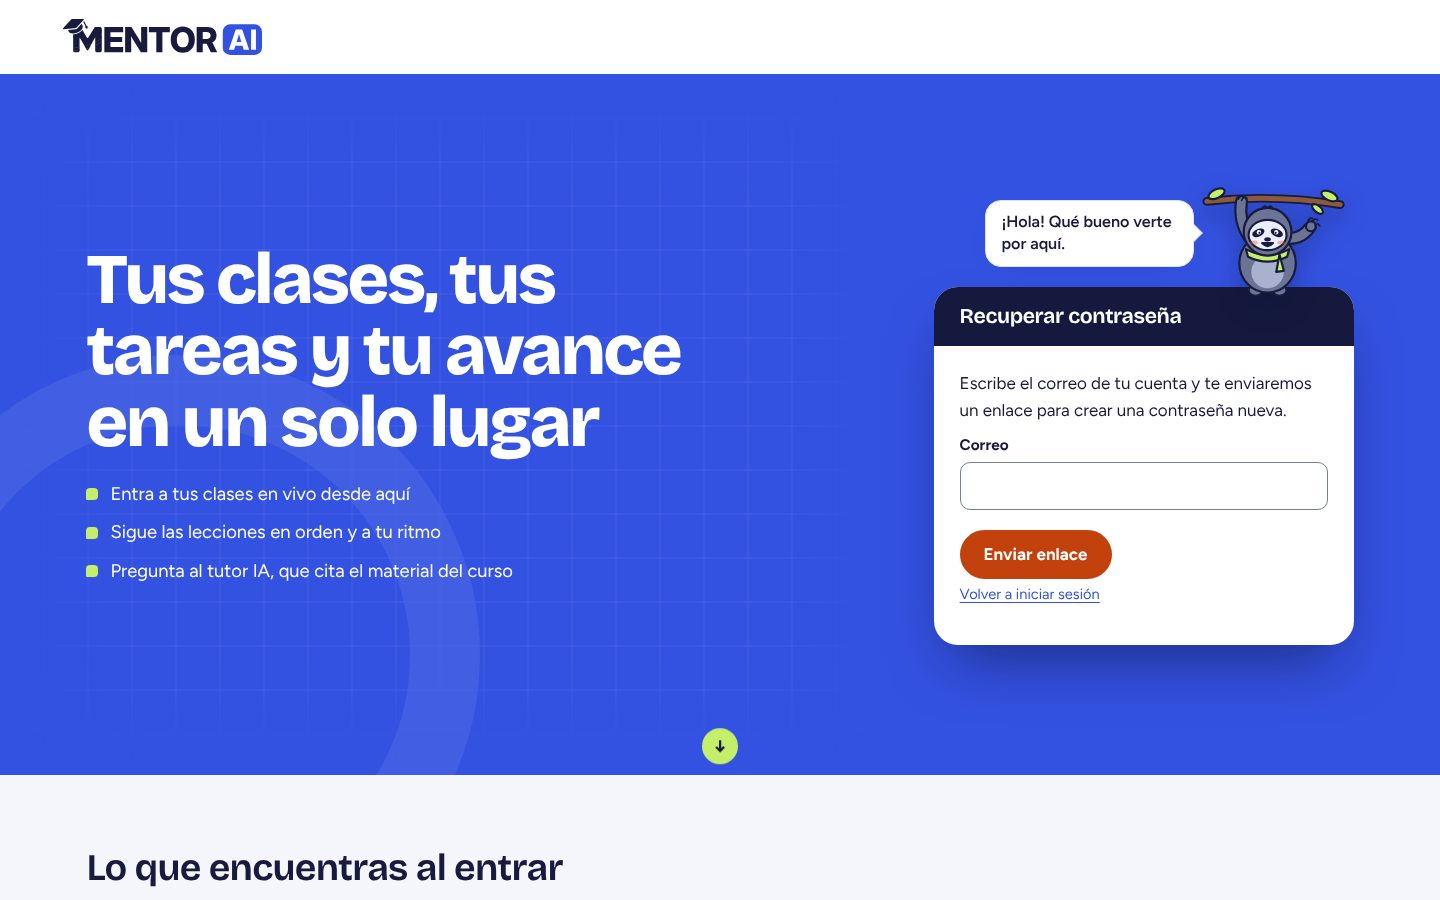
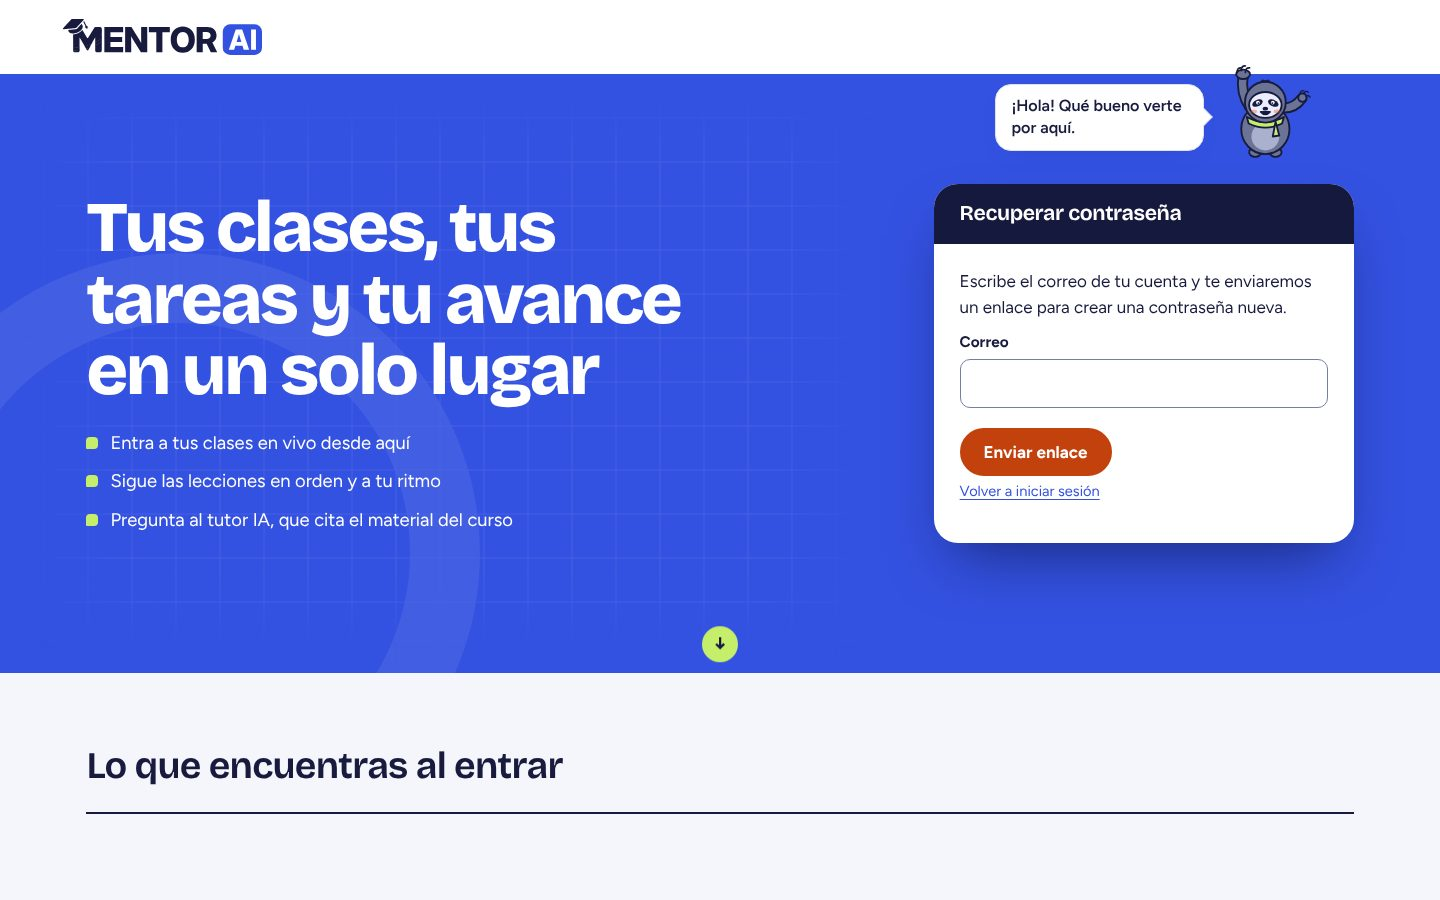
feat(frontend): Pausa se agarra de la barra superior en la portada
- Pausa acepta rama={false}: sin rama, con la palma y las garras sobre el borde de lo que tenga encima.
- En la portada cuelga del borde inferior de la barra del logo y saluda con la otra mano.
- Mockups de la portada, ficha de marca y estado actualizados.

Claude-Session: https://claude.ai/code/session_01HWhhskBB4jkRYBLk5nnoMy

diff --git a/frontend/src/Componentes/Pausa.jsx b/frontend/src/Componentes/Pausa.jsx
@@ -6,6 +6,8 @@ import { gsap, useGSAP } from '../utils/gsap.js';
 // Cada estado cambia partes del mismo dibujo: brazo derecho, ojos, boca y accesorios.
 export const ESTADOS_PAUSA = ['bienvenida', 'leyendo', 'dormido'];
 export const VISTA_PAUSA = '362 30 276 215';
+// Sin rama: el dibujo empieza en las garras, para colgarse de un borde de la página.
+const VISTA_SIN_RAMA = '362 36 276 209';
 
 const TINTA = '#181B3E';
 const GRIS = '#6B7494';
@@ -95,17 +97,17 @@ function Zetas() {
   );
 }
 
-// Dibujo completo de Pausa.
-export function DibujoPausa({ estado = 'leyendo' }) {
+// Dibujo completo de Pausa. Con «rama» en falso se cuelga de lo que tenga encima (por ejemplo, la barra superior).
+export function DibujoPausa({ estado = 'leyendo', rama = true }) {
   return (
     <g data-parte="pausa" stroke={TINTA} strokeWidth="4" strokeLinejoin="round" strokeLinecap="round">
-      <g data-parte="rama">
+      {rama && <g data-parte="rama">
         <path d="M378 62 q120 -14 246 6" fill="none" strokeWidth="16" />
         <path d="M378 62 q120 -14 246 6" fill="none" stroke={CAFE} strokeWidth="9" />
         <ellipse cx="396" cy="48" rx="16" ry="8" fill={LIMA} transform="rotate(-25 396 48)" />
         <ellipse cx="604" cy="52" rx="16" ry="8" fill={LIMA} transform="rotate(25 604 52)" />
         <ellipse cx="582" cy="76" rx="12" ry="6" fill={LIMA} transform="rotate(40 582 76)" />
-      </g>
+      </g>}
       <g data-parte="brazo-rama">
         <path d="M456 128 q-20 -30 -14 -66" fill="none" strokeWidth="24" />
         <path d="M456 128 q-20 -30 -14 -66" fill="none" stroke={GRIS} strokeWidth="16" />
@@ -132,10 +134,17 @@ export function DibujoPausa({ estado = 'leyendo' }) {
         <ellipse cx="465" cy="138" rx="7" ry="4" fill={NARANJA} opacity="0.4" stroke="none" />
         <ellipse cx="515" cy="138" rx="7" ry="4" fill={NARANJA} opacity="0.4" stroke="none" />
       </g>
+      {/* Sin rama, la mano izquierda se apoya sobre el borde (y = 58) con las garras encima. */}
+      {!rama && (
+        <g data-parte="agarre">
+          <ellipse cx="442" cy="58" rx="15" ry="10" fill={GRIS} />
+          <path d="M429 54 q0 -11 9 -10 M438 50 q0 -11 9 -10 M447 54 q0 -11 9 -10" fill="none" strokeWidth="3.6" />
+        </g>
+      )}
       {/* Garras sobre la rama: el brazo derecho solo se agarra cuando duerme. */}
-      <path d={estado === 'dormido'
+      {rama && <path d={estado === 'dormido'
         ? 'M436 58 q4 -8 10 -4 M442 60 q4 -8 10 -4 M532 58 q4 -8 10 -2 M538 60 q4 -8 10 -2'
-        : 'M436 58 q4 -8 10 -4 M442 60 q4 -8 10 -4'} fill="none" strokeWidth="3" />
+        : 'M436 58 q4 -8 10 -4 M442 60 q4 -8 10 -4'} fill="none" strokeWidth="3" />}
       {estado === 'dormido' && <Zetas />}
     </g>
   );
@@ -159,7 +168,7 @@ export function animarEstadoPausa(raiz, estado) {
 }
 
 // Pausa como SVG en línea. «animacion» es un contador: cada cambio reproduce el estado una vez.
-export default function Pausa({ estado = 'leyendo', animacion = 0, ancho = 120, parpadeo = true, className = '', alTerminar }) {
+export default function Pausa({ estado = 'leyendo', animacion = 0, ancho = 120, parpadeo = true, rama = true, className = '', alTerminar }) {
   const raiz = useRef(null);
   const pose = ESTADOS_PAUSA.includes(estado) ? estado : 'leyendo';
 
@@ -181,9 +190,9 @@ export default function Pausa({ estado = 'leyendo', animacion = 0, ancho = 120, 
   }, { scope: raiz, dependencies: [pose, parpadeo, ancho] });
 
   return (
-    <svg ref={raiz} className={`pausa ${className}`.trim()} viewBox={VISTA_PAUSA} width={ancho} height={Math.round((ancho * 215) / 276)}
-      aria-hidden="true" focusable="false" overflow="visible" data-estado={pose}>
-      <DibujoPausa estado={pose} />
+    <svg ref={raiz} className={`pausa ${className}`.trim()} viewBox={rama ? VISTA_PAUSA : VISTA_SIN_RAMA} width={ancho}
+      height={Math.round((ancho * (rama ? 215 : 209)) / 276)} aria-hidden="true" focusable="false" overflow="visible" data-estado={pose}>
+      <DibujoPausa estado={pose} rama={rama} />
     </svg>
   );
 }

diff --git a/frontend/src/Componentes/Recorrido.css b/frontend/src/Componentes/Recorrido.css
@@ -243,14 +243,18 @@
 .practica-orbi { margin-left: auto; margin-right: 16px; }
 
 /* --- Pausa saluda en la portada (inicio de sesión, recuperar y activar) --- */
-/* Cuelga de su rama justo encima del formulario, con la burbuja a la izquierda. */
-.portada-acceso { position: relative; z-index: 2; display: flex; flex-direction: column; min-width: 0; }
-.mascota-portada { flex-direction: row-reverse; justify-content: flex-start; align-items: center; gap: 4px; margin: 0 6px -14px 0; position: relative; z-index: 3; }
-.mascota-portada > svg { width: clamp(120px, 11vw, 150px); height: auto; filter: drop-shadow(0 10px 12px rgba(10, 16, 60, 0.3)); }
-.mascota-portada .burbuja-mascota { max-width: 20ch; font-size: 0.95rem; margin-bottom: 18px; }
+/* Cuelga con una mano del borde inferior de la barra del logo, sobre la columna del formulario. */
+.portada .cabecera { position: relative; z-index: 3; }
+.pausa-colgada {
+  --ancho-pausa: clamp(84px, 9vw, 128px);
+  /* El borde de la barra cae a media palma (22 de 276 unidades desde arriba del dibujo): la mano queda agarrada. */
+  position: absolute; top: calc(100% - var(--ancho-pausa) * 22 / 276); right: calc(clamp(16px, 6vw, 90px) + 20px);
+  flex-direction: row-reverse; align-items: center; gap: 2px; pointer-events: none;
+}
+.pausa-colgada > svg { width: var(--ancho-pausa); height: auto; }
+.pausa-colgada .burbuja-mascota { max-width: 20ch; font-size: 0.95rem; margin-top: 10px; }
 /* La flecha de la burbuja apunta a Pausa, que queda a la derecha. */
-.mascota-portada .burbuja-mascota::before { left: auto; right: -7.5px; transform: translateY(-50%) rotate(-135deg); }
+.pausa-colgada .burbuja-mascota::before { left: auto; right: -7.5px; transform: translateY(-50%) rotate(-135deg); }
 @media (max-width: 560px) {
-  .mascota-portada > svg { width: 104px; }
-  .mascota-portada .burbuja-mascota { font-size: 0.9rem; padding: 8px 12px; margin-bottom: 12px; }
+  .pausa-colgada .burbuja-mascota { font-size: 0.86rem; padding: 6px 10px; }
 }

diff --git a/frontend/src/Componentes/Portada.jsx b/frontend/src/Componentes/Portada.jsx
@@ -69,7 +69,14 @@ export default function Portada({ titulo, children }) {
 
   return (
     <div className="portada">
-      <header className="cabecera"><Logo como="p" /></header>
+      <header className="cabecera">
+        <Logo como="p" />
+        {/* Pausa se agarra del borde inferior de esta barra y saluda una vez; es decorativa y respeta
+            «Mostrar mascotas» y «Menos movimiento». */}
+        <Suspense fallback={null}>
+          <Mascota personaje="pausa" estado="bienvenida" rama={false} animacion={1} mensaje={MENSAJE_PORTADA} className="pausa-colgada" />
+        </Suspense>
+      </header>
 
       <section className="portada-hero">
         {/* Capa decorativa: oculta al lector de pantalla y sin eventos del puntero. */}
@@ -84,15 +91,9 @@ export default function Portada({ titulo, children }) {
             <li>Pregunta al tutor IA, que cita el material del curso</li>
           </ul>
         </div>
-        <div className="portada-acceso">
-          {/* Pausa cuelga sobre el formulario y saluda una vez; es decorativa y respeta «Mostrar mascotas» y «Menos movimiento». */}
-          <Suspense fallback={null}>
-            <Mascota personaje="pausa" estado="bienvenida" tamano="mediano" animacion={1} mensaje={MENSAJE_PORTADA} className="mascota-portada" />
-          </Suspense>
-          <div className="tarjeta formulario-portada">
-            <h2>{titulo}</h2>
-            <div className="formulario-cuerpo">{children}</div>
-          </div>
+        <div className="tarjeta formulario-portada">
+          <h2>{titulo}</h2>
+          <div className="formulario-cuerpo">{children}</div>
         </div>
         <a className="flecha-abajo" href="#detalles" aria-label="Ver más sobre la plataforma">↓</a>
       </section>

diff --git a/frontend/src/Componentes/Mascota.jsx b/frontend/src/Componentes/Mascota.jsx
@@ -15,7 +15,7 @@ export function useMascotasVisibles() {
 // Envoltorio común de Orbi y Pausa: dibujo decorativo, burbuja de texto y preferencia de ocultar.
 // El dibujo nunca lleva información: el mensaje es texto visible y, si es importante, se anuncia.
 export default function Mascota({
-  personaje = 'orbi', estado, mensaje, tamano = 'mediano', anunciar = false, animacion = 0, siOculta = null, className = '', alTerminar,
+  personaje = 'orbi', estado, mensaje, tamano = 'mediano', anunciar = false, animacion = 0, siOculta = null, className = '', alTerminar, rama = true,
 }) {
   const visible = useMascotasVisibles();
   // Pausa cuelga de una rama ancha: se dibuja un poco más grande para que el personaje mida lo mismo que Orbi.
@@ -32,7 +32,7 @@ export default function Mascota({
   const Dibujo = personaje === 'pausa' ? Pausa : Orbi;
   return (
     <div className={`mascota mascota-${tamano} ${className}`.trim()} data-personaje={personaje}>
-      <Dibujo estado={estado} ancho={ancho} animacion={animacion} alTerminar={alTerminar} />
+      <Dibujo estado={estado} ancho={ancho} animacion={animacion} alTerminar={alTerminar} {...(personaje === 'pausa' ? { rama } : {})} />
       {/* La región viva queda montada aunque esté vacía, para que el siguiente mensaje sí se anuncie. */}
       {mensaje !== undefined && <p className="burbuja-mascota" aria-live={anunciar ? 'polite' : undefined}>{mensaje}</p>}
     </div>

diff --git a/docs/ESTADO_DESARROLLO_PARA_CLAUDE.md b/docs/ESTADO_DESARROLLO_PARA_CLAUDE.md
@@ -38,9 +38,9 @@ Ejecutado el 2026-11-25:
 - Modelo de datos: 76 tablas, 765 columnas y 159 llaves foráneas; entregables en Word y PDF regenerados.
 
 Después del PR #19 (mismo día):
-- Pausa saluda en la portada pública (iniciar sesión, recuperar y activar): cuelga de su rama sobre el formulario, saluda una vez y dice «¡Hola! Qué bueno verte por aquí.».
-- Se carga aparte con `lazy`, así que el formulario no espera a GSAP. Carga inicial comprimida: 99 008 bytes.
-- Se revisó en 1440, 1000 y 390 px, en claro y oscuro. Al lado del título dejaba el título en una columna demasiado angosta a 1000 px, por eso va sobre la tarjeta.
+- Pausa saluda en la portada pública (iniciar sesión, recuperar y activar). Se agarra con una mano del borde inferior de la barra del logo, sin su rama (`Pausa rama={false}`, con palma y garras sobre el borde), saluda una vez con la otra mano y dice «¡Hola! Qué bueno verte por aquí.».
+- Se carga aparte con `lazy`, así que el formulario no espera a GSAP. Carga inicial comprimida: 99 009 bytes.
+- Se revisó en 1440, 1000 y 390 px, en claro y oscuro. Al lado del título dejaba el título en una columna demasiado angosta a 1000 px; por eso cuelga de la barra, sobre la columna del formulario.
 - Lint; frontend 85/85; Playwright `accesibilidad` y `acceso` 15/15; mockups 01–03 regenerados.
 
 Pendiente:

diff --git a/docs/marca/mascotas/README.md b/docs/marca/mascotas/README.md
@@ -24,7 +24,7 @@ En la app se dibujan con `Componentes/Orbi.jsx`, `Pausa.jsx`, `OrbiSticker.jsx` 
 | Orbi | Pensando | Tutor IA, mientras busca en el material |
 | Orbi | Celebrando | Subir de rango, terminar un módulo, recorrido completo |
 | Orbi | Descanso | Reservado, aún sin uso en pantalla |
-| Pausa | Bienvenida | Portada pública (iniciar sesión, recuperar y activar), colgada sobre el formulario; inicio del estudiante tras 7 días o más sin actividad de aprendizaje |
+| Pausa | Bienvenida | Portada pública (iniciar sesión, recuperar y activar), agarrada con una mano del borde inferior de la barra del logo y sin su rama (`rama={false}`); inicio del estudiante tras 7 días o más sin actividad de aprendizaje |
 | Pausa | Leyendo | Estados vacíos (sin cursos, curso sin lecciones) y Configuración |
 | Pausa | Dormido | Sin novedades, módulo sin lecciones o sin preguntas de práctica; Configuración con «Menos movimiento» |
 
